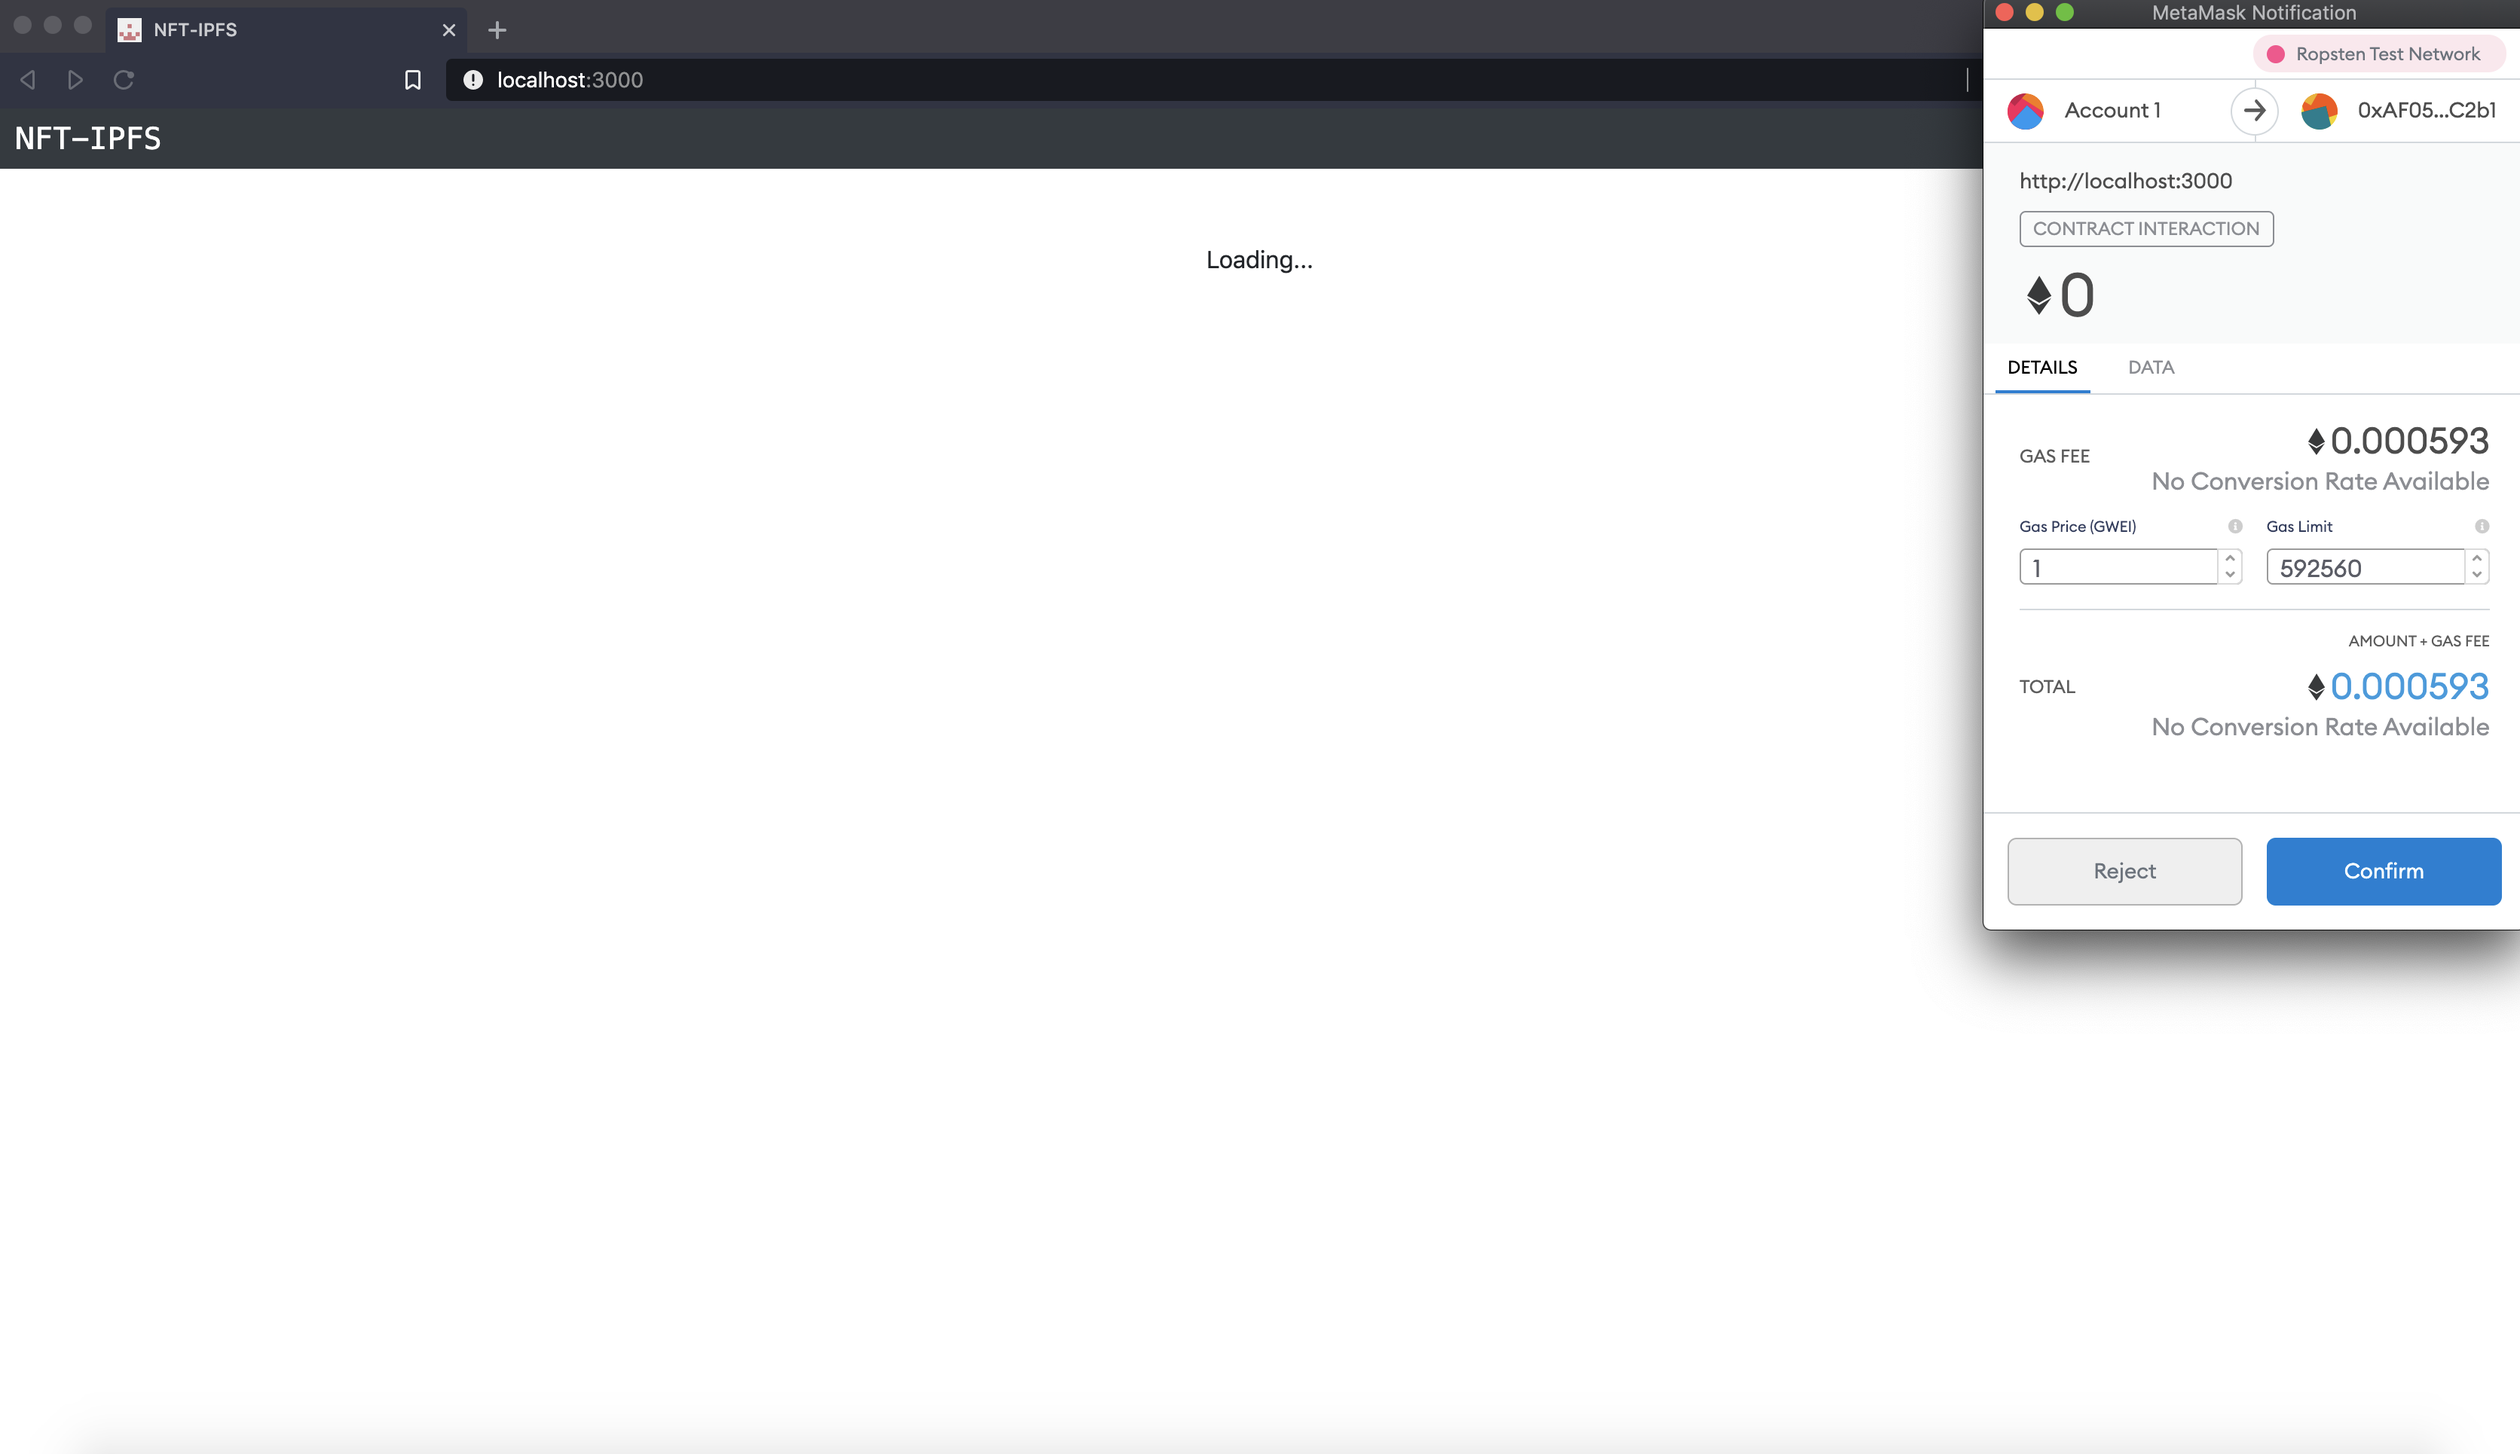
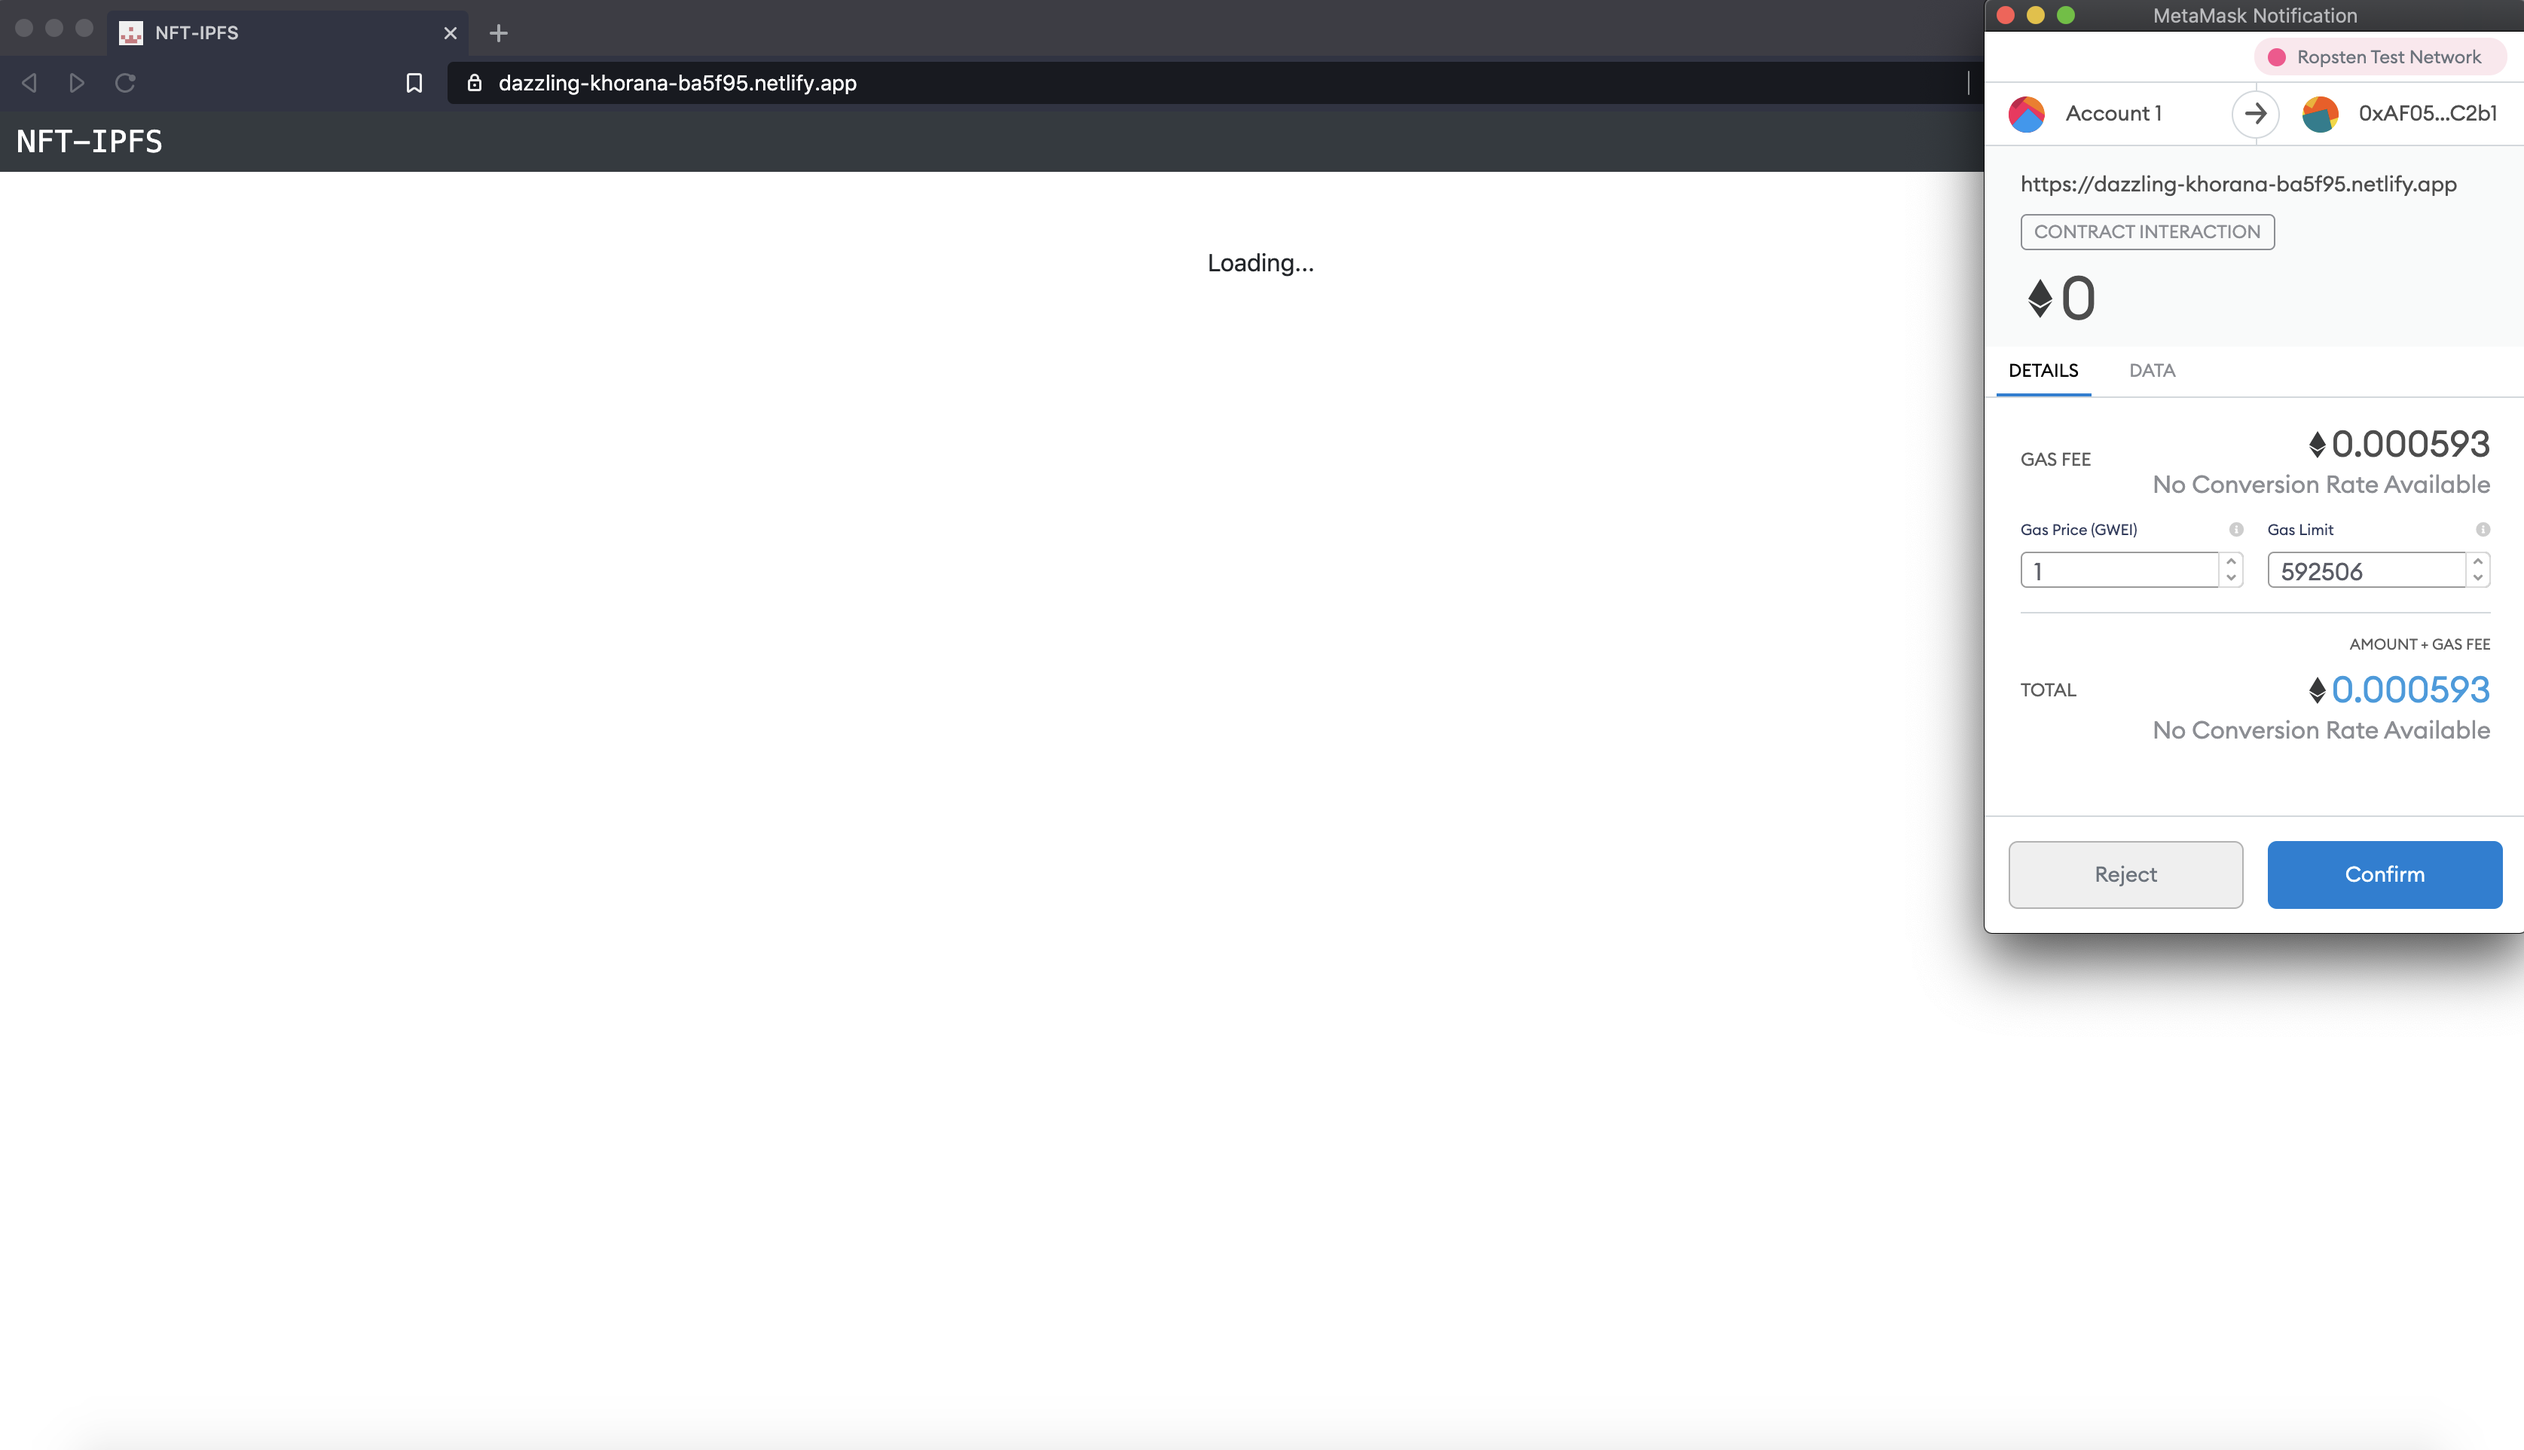
Update images & Demo link

diff --git a/README.md b/README.md
@@ -4,7 +4,7 @@
 
 This application mints images into NFTs on the Ethereum blockchain, upload images to IPFS and display the images on the screen.
 
-### DEMO - 
+### DEMO - https://dazzling-khorana-ba5f95.netlify.app/
 
 - Connect to the site in Metamask via the Ropsten test network
 - Only admin is able to mint NFTs on the site
